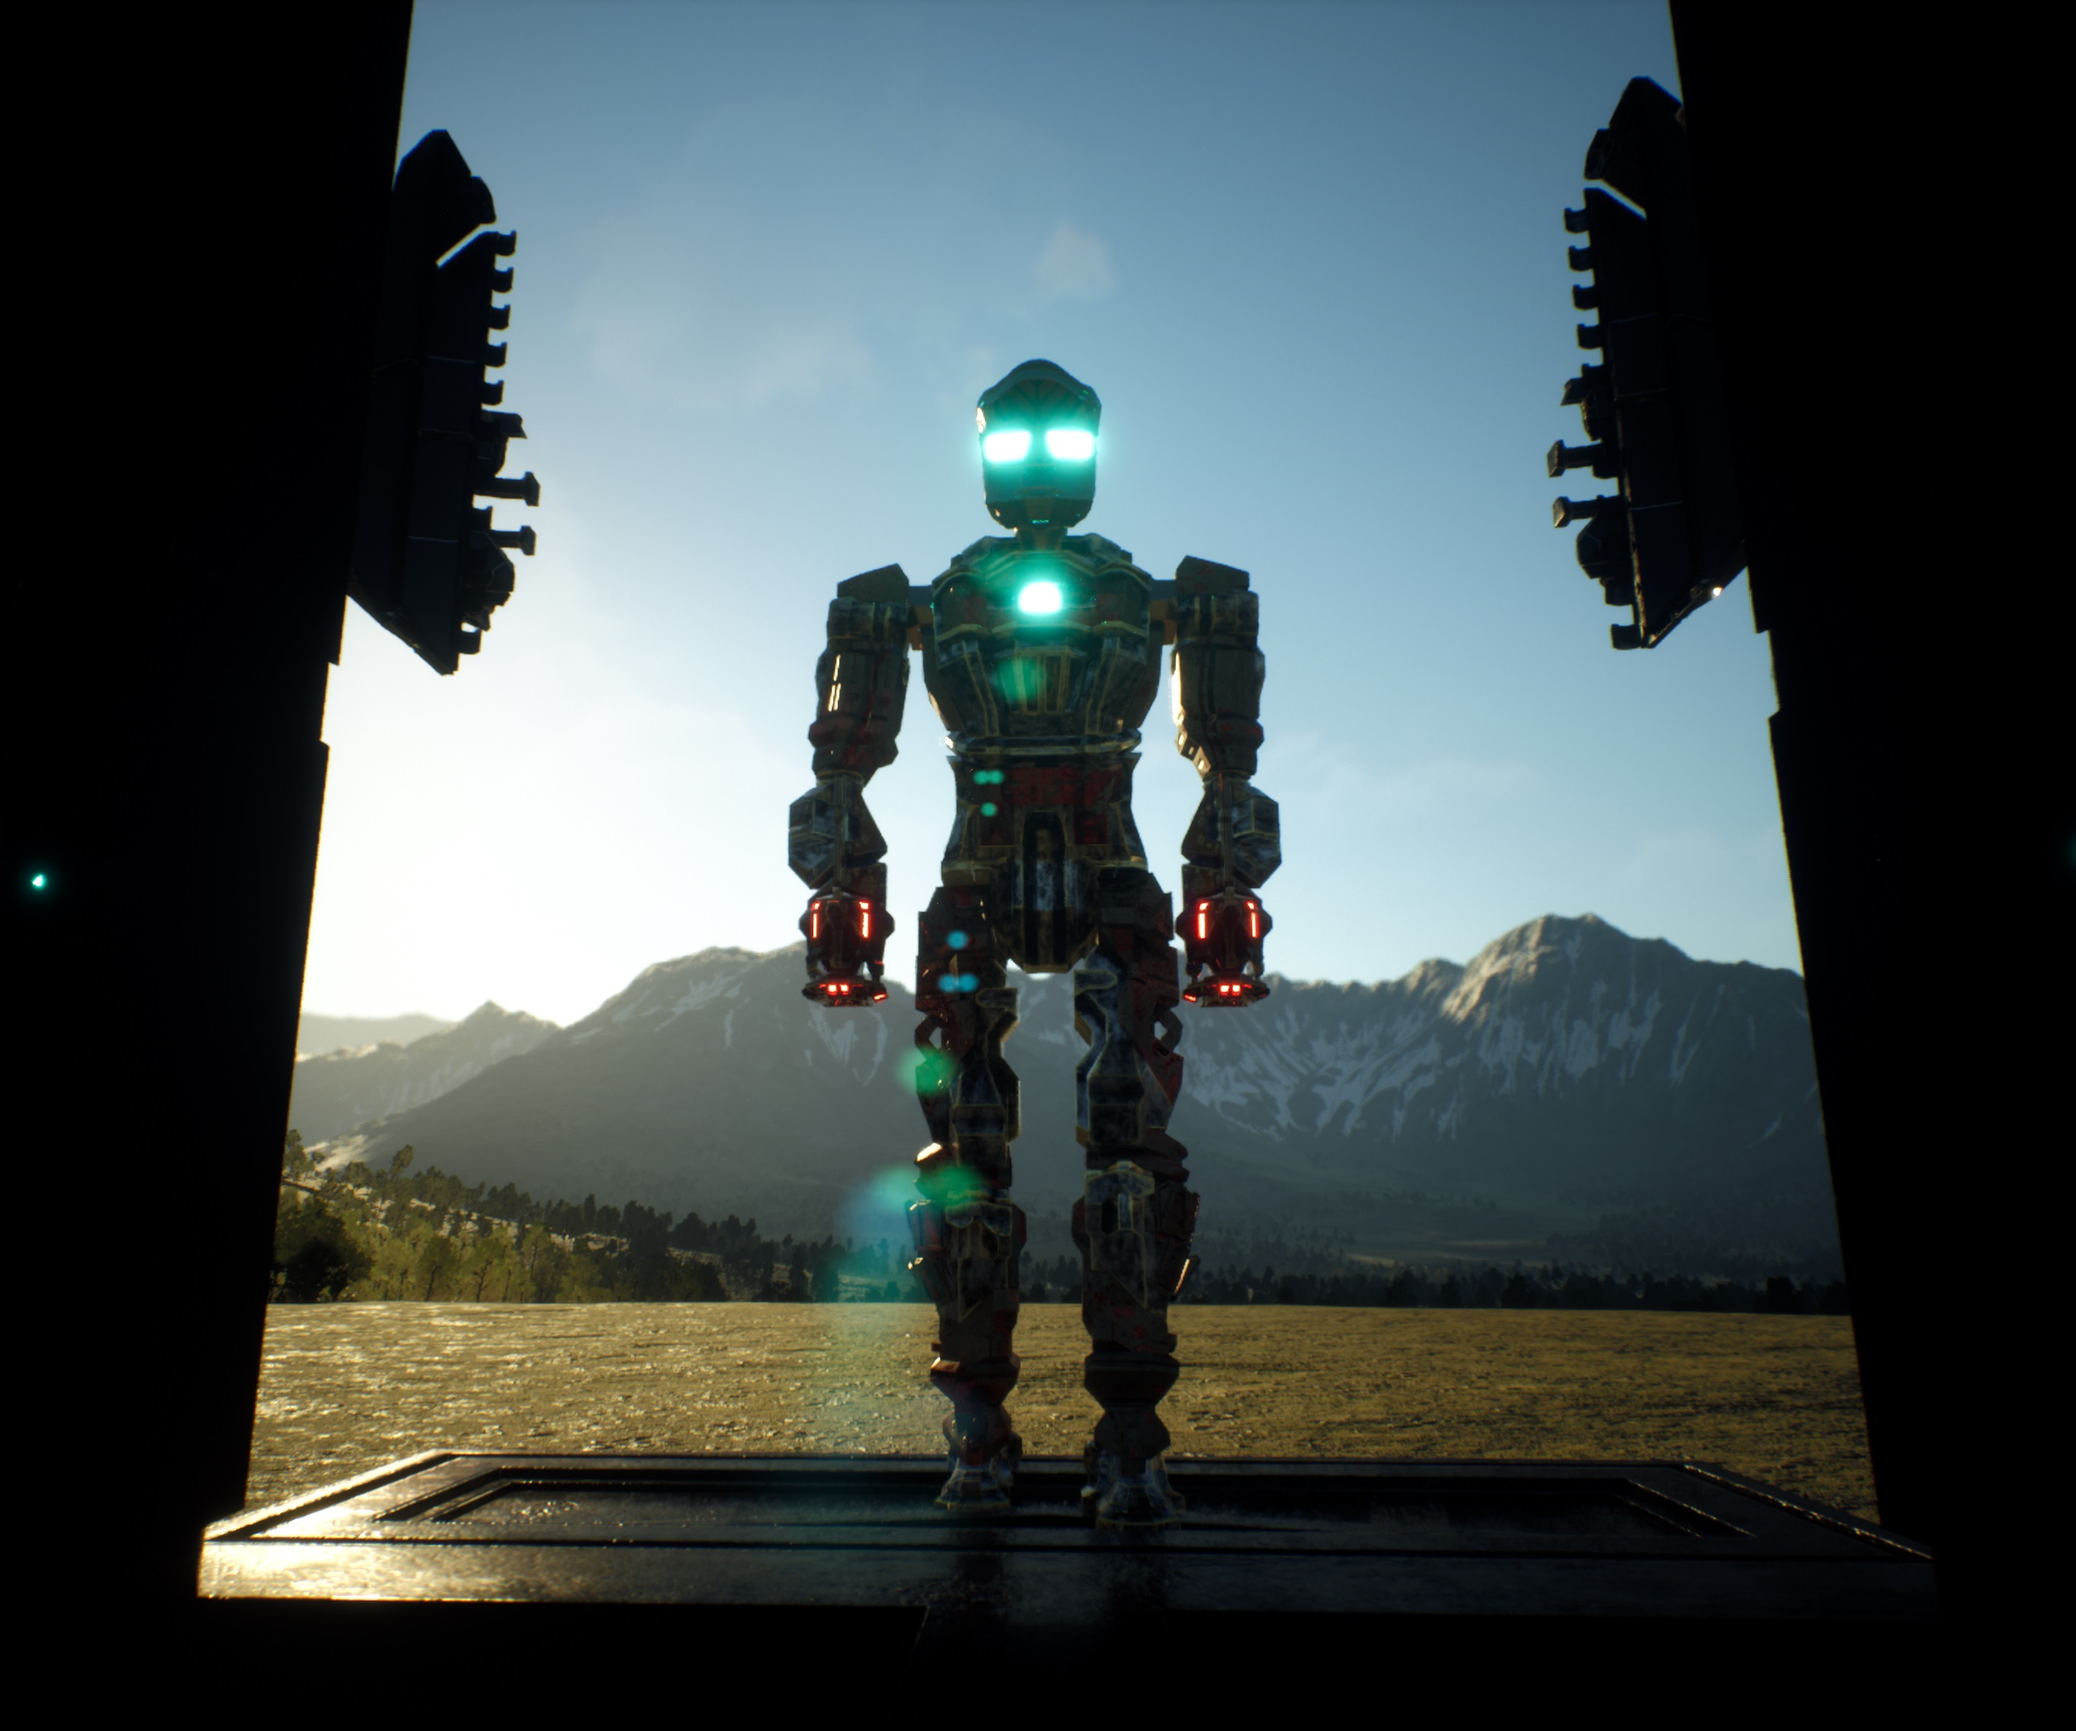
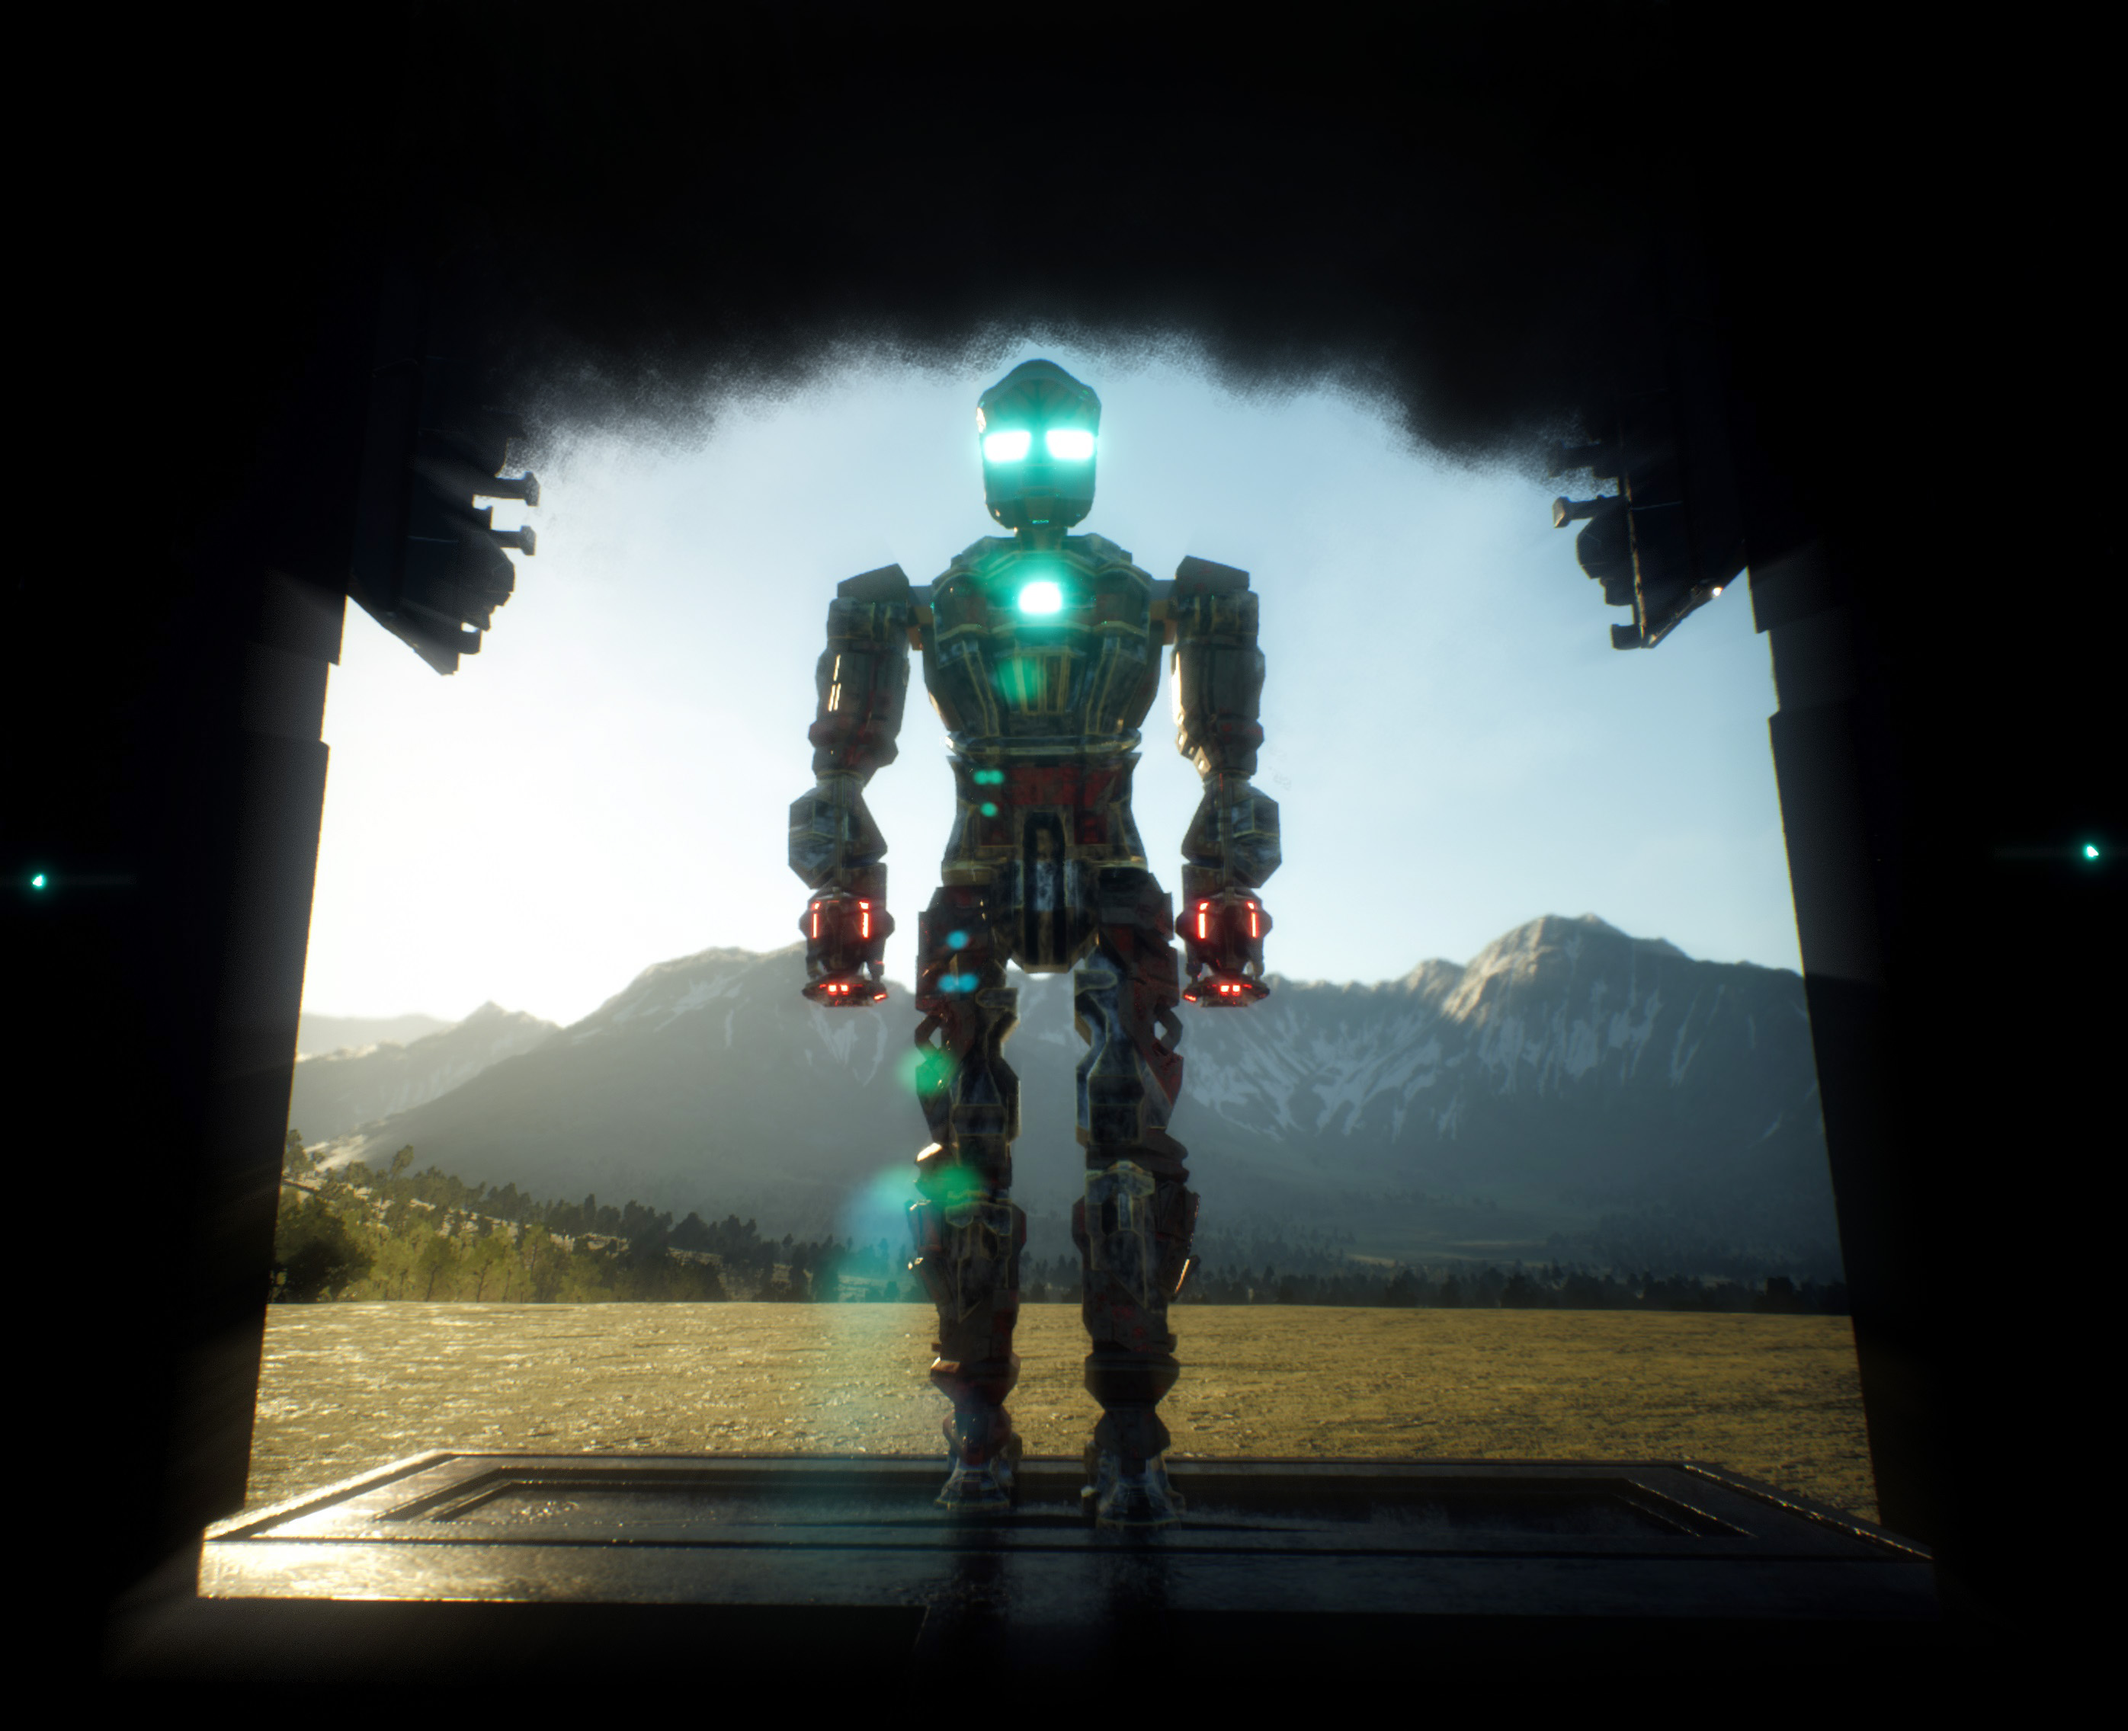
background image for title & minor adjustments

diff --git a/src/css/main.css b/src/css/main.css
@@ -16,7 +16,7 @@ body {
     color: rgb(246, 246, 241);
     margin: 0;
     padding: 0;
-    background-color: rgb(31, 29, 29);
+    background-color: rgb(0, 0, 0);
     /* overflow: hidden; */
     /* background: url('../../public/b3.jpg');
     background-repeat: no-repeat;
@@ -44,7 +44,7 @@ a:active { text-decoration: none; color: rgb(15, 111, 111) }
 }
 
 .nav{
-    background-color: black;
+    background-color: rgb(22, 21, 21);
     height: 50px;
     width: 100%;
     position: fixed;
@@ -111,7 +111,7 @@ a:active { text-decoration: none; color: rgb(15, 111, 111) }
 .nav-link{
     text-decoration: none;
     text-decoration-line: none ;
-    background-color: #000000;
+    background-color: rgb(22, 21, 21);
     padding: 5px;
     border-radius: 10px;
     transition: all 0.2s ease-in-out;
@@ -181,14 +181,14 @@ a:active { text-decoration: none; color: rgb(15, 111, 111) }
     
     background-clip: text;
     -webkit-text-fill-color: transparent;
-    color: aqua;
+    color: rgb(0, 0, 0);
     /* For WebKit/Blink */
-    -webkit-text-stroke: 2.3px rgb(0, 0, 0);
+    -webkit-text-stroke: 2.3px rgb(126, 255, 253);
 
     /* For Firefox */
-    text-stroke: 2.3px rgb(0, 0, 0);
+    text-stroke: 2.3px rgb(126, 255, 253);
     -webkit-text-stroke-width: 1.1px;
-    -webkit-text-fill-color: aqua;
+    -webkit-text-fill-color: rgb(0, 0, 0);
 }
 
 
@@ -434,10 +434,11 @@ a:active { text-decoration: none; color: rgb(15, 111, 111) }
 }
 
 .b-img-title{
-    /* background: url('../../public/b3-2.jpg');
+    background: url('../../public/title-back.jpg');
     background-repeat: no-repeat;
     background-size: cover;
-    background-position: center center; */
+    background-position: top center;
+    min-height: 150vh;
     /* background-color: rgba(240, 248, 255, 0); */
     /* background-image: linear-gradient(to bottom, #5151517d, #5352526f, #4141413d, #1c1c1c32, #07070700); */
 }

diff --git a/src/components/MainComponents/Music/Music.tsx b/src/components/MainComponents/Music/Music.tsx
@@ -23,12 +23,12 @@ export default function Music() {
         
         <div className='flex j-center jt-center'>
             {/* <img style={{minWidth: '300px', width: '30vw'}} src='/OriginalMusic2.png' alt='music'/> */}
-            <h3 className='m6 font-9 s3 teal'>Originals</h3>
+            <h3 className='m6 font-9 s3 white'>Originals</h3>
         </div>
         <MusicPlayer/>
         <div className='flex j-center jt-center'>
             {/* <img style={{minWidth: '300px', width: '30vw'}} src='/Tributes.png' alt='music'/> */}
-            <h3 className='m6 font-9 s3 teal'>Tributes</h3>
+            <h3 className='m6 font-9 s3 white'>Tributes</h3>
         </div>
         
         <iframe className='vid-frame' src="https://www.youtube.com/embed/5RbIy67mfII" title="YouTube video player" frameBorder="0" allow="accelerometer; autoplay; clipboard-write; encrypted-media; gyroscope; picture-in-picture; web-share" allowFullScreen></iframe>

diff --git a/src/components/primitives/footer/Footer.tsx b/src/components/primitives/footer/Footer.tsx
@@ -5,7 +5,7 @@ export default function Footer() {
   return (
     <footer style={{minHeight: '120px', backgroundColor: 'black'}} className='p2 flex f-dir-col'>
       <Link
-        className='font-1 p1 teal sb-btn mt2 mb5'
+        className='font-1 p1 teal sb-btn mt2 mb2'
         to="home"
         spy={false}
         smooth={true}
@@ -15,9 +15,9 @@ export default function Footer() {
       >
         Back To Top
       </Link>
-      <p style={{width: '100%', borderTop:'1px solid white'}} className='mt5'>
+      {/* <p style={{width: '100%', borderTop:'1px solid white'}} className='mt5'>
 
-      </p>
+      </p> */}
       <p className='p3 font-8 jt-center'>
         © Adam Ocheri Tech Art 2023
       </p>

diff --git a/src/components/primitives/musicPlayer/MusicPlayer.tsx b/src/components/primitives/musicPlayer/MusicPlayer.tsx
@@ -94,7 +94,7 @@ export default function MusicPlayer() {
   return (
     <div className="component" >
       <h2 className={isPlaying ? 'play-status-on' : 'play-status-off'}>Now Playing</h2>
-      <img className="musicCover" src="/cps.jpg" height={'128px'} width={'128px'} alt="nomeaning"/>
+      <img className="musicCover" src="/title-back.jpg" height={'128px'} width={'128px'} alt="nomeaning"/>
       <div>
         <h3 className="title">{songName}</h3>
         <p className="subTitle">Adam</p>

diff --git a/src/components/MainComponents/CGArt/Art3D.tsx b/src/components/MainComponents/CGArt/Art3D.tsx
@@ -105,7 +105,7 @@ export default function Art3D({windowSize} : {windowSize: {window_x:number, wind
                 </article>}
             </div>
             
-            <div className="p5 b-img-1" style={{backgroundColor: 'rgba(240, 248, 255, 0.00)'}}>
+            <div className="p5" style={{backgroundColor: 'rgba(240, 248, 255, 0.00)'}}>
                 <article className="font-1 s2 area-text p3 m2"> 
                 <div className='flex j-center'>
                     

diff --git a/src/components/MainComponents/Programming/Programming.tsx b/src/components/MainComponents/Programming/Programming.tsx
@@ -72,7 +72,7 @@ export default function Programming() {
                           </p>
 
                           <div className='flex j-center jt-center'>
-                            <h3 className='m6 font-9 s3 teal'>Personal Projects</h3>
+                            <h3 className='m6 font-9 s3 white'>Personal Projects</h3>
                           </div>
                           <section className='flex f-dir-row f-wrap j-center'>
 

diff --git a/src/components/MainComponents/HomeTitle/HomeTitle.tsx b/src/components/MainComponents/HomeTitle/HomeTitle.tsx
@@ -4,7 +4,7 @@ import { Link } from 'react-scroll'
 
 export default function HomeTitle() {
   return (
-    <div className="p5 b-img-title" style={{height:'99vh'}} id='home'>
+    <div className="p5 b-img-title" id='home'>
 
         <h1 className='font-9 s-vw1 main-title'>Adam Ocheri</h1>        
         <h2 className='font-9 s3 flex f-wrap j-even'><span className='tech-art'>Tech</span> <span className='tech-art'>Art</span></h2>
